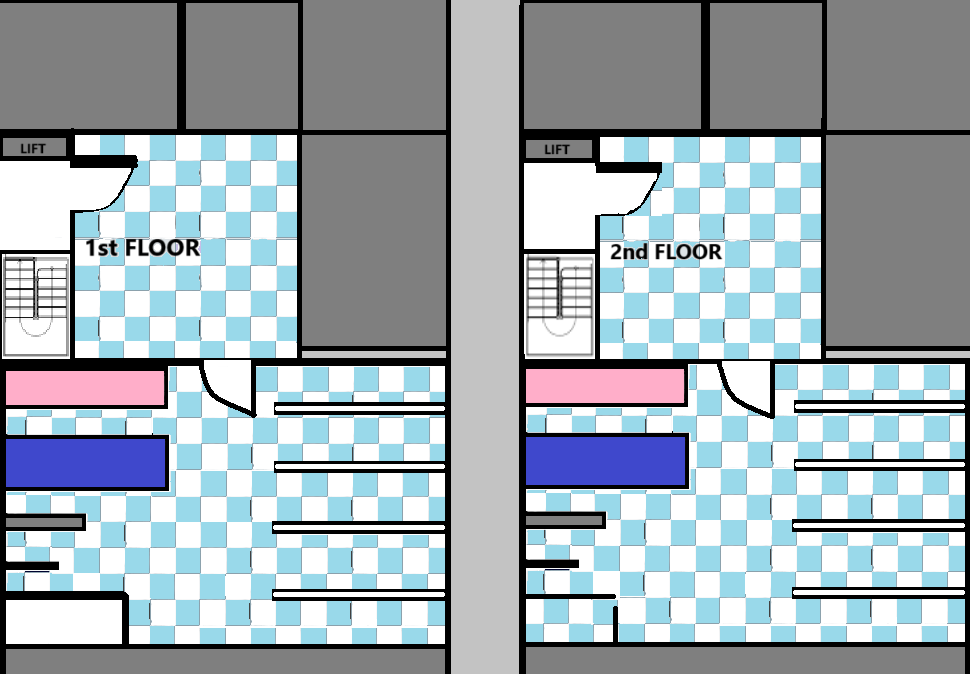
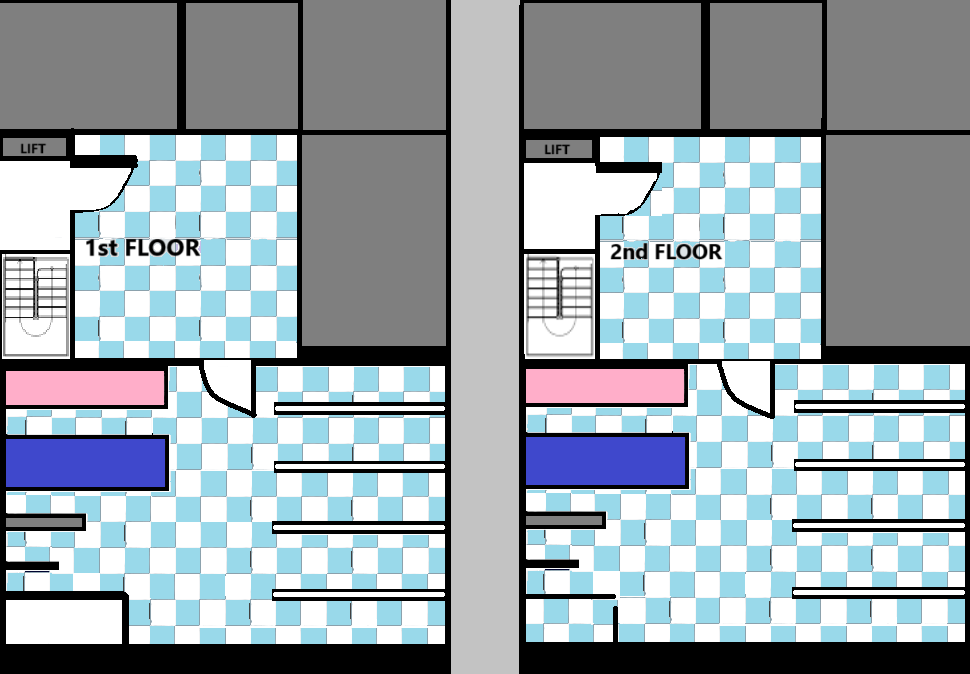
`Update 1stFloor.png and devicesADMIN.html with binary and content changes`

diff --git a/public/devicesADMIN.html b/public/devicesADMIN.html
@@ -54,7 +54,7 @@
       background-position: center; /* Center the image */
       width: 800px;
       height: 500px; /* Adjust height to fit the image dimensions */
-      border: 1px solid #ccc;
+      border: 5px solid #000000;
       border-radius: 10px;
       overflow: hidden;
     }
